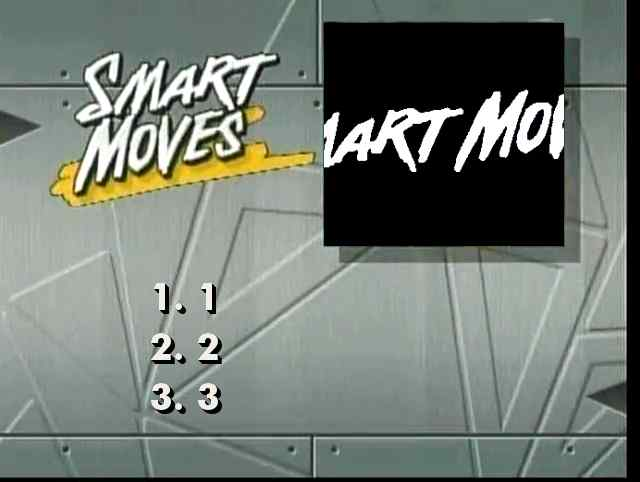
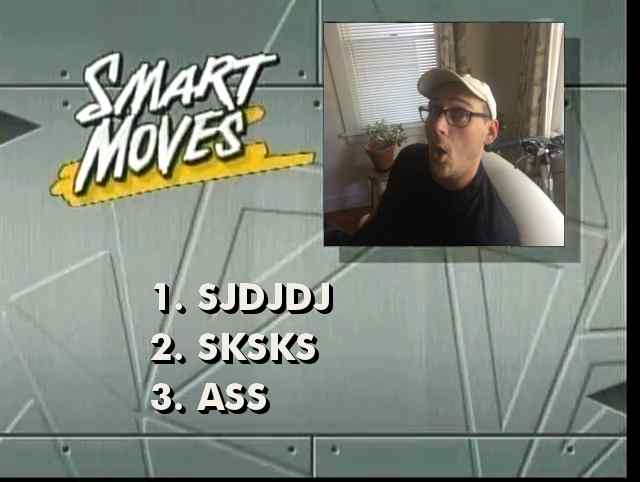
Beer break.

Changed region(s): [[0.5, 0.0311, 0.9062, 0.529], [0.3125, 0.6846, 0.5, 0.8714], [0.3125, 0.5602, 0.5312, 0.6535]]

diff --git a/css/styles.css b/css/styles.css
@@ -1,45 +1,93 @@
-.container { margin: 20px auto; }
+.container {
+  margin: 20px auto; }
+  .container input[type=text], .container textarea {
+    box-shadow: none;
+    outline: none;
+    appearance: none;
+    -moz-appearance: none;
+    -o-appearance: none;
+    -webkit-appearance: none; }
 
-.container input[type=text], .container textarea { box-shadow: none; outline: none; appearance: none; -moz-appearance: none; -o-appearance: none; -webkit-appearance: none; }
+#smrt-mvs-form {
+  position: relative;
+  text-align: center; }
+  #smrt-mvs-form img {
+    margin-bottom: 20px; }
+  #smrt-mvs-form input[type=file] {
+    height: 1px;
+    opacity: 0;
+    overflow: hidden;
+    position: absolute;
+    width: 1px;
+    z-index: -1; }
+  #smrt-mvs-form label[for=usr-img] {
+    display: block;
+    margin-bottom: 10px; }
+    #smrt-mvs-form label[for=usr-img]:hover {
+      cursor: pointer; }
+    #smrt-mvs-form label[for=usr-img] .img-inner {
+      overflow: hidden;
+      text-align: center;
+      text-overflow: ellipsis; }
+      #smrt-mvs-form label[for=usr-img] .img-inner i {
+        font-size: 20px;
+        margin-right: 10px;
+        vertical-align: middle; }
+  #smrt-mvs-form .msg-log {
+    margin-bottom: 20px;
+    text-align: left; }
+  #smrt-mvs-form .mvs-outer {
+    margin-bottom: 20px; }
+    #smrt-mvs-form .mvs-outer .form-group {
+      margin-bottom: 10px; }
+      #smrt-mvs-form .mvs-outer .form-group input[type=text] {
+        border-radius: 0; }
+      #smrt-mvs-form .mvs-outer .form-group .input-group-addon {
+        border-radius: 0;
+        padding: 10px 10px 10px 14px; }
 
-#smrt-mvs-form { position: relative; text-align: center; }
+#smrt-mvs-results {
+  position: relative;
+  text-align: center; }
+  #smrt-mvs-results img {
+    margin-bottom: 20px; }
+  #smrt-mvs-results .input-group {
+    margin-bottom: 20px; }
 
-#smrt-mvs-form img { margin-bottom: 20px; }
+#smrt-mvs-tab {
+  position: relative;
+  text-align: center; }
+  #smrt-mvs-tab .btn-group {
+    margin-bottom: 20px; }
+    #smrt-mvs-tab .btn-group button {
+      width: 80px; }
 
-#smrt-mvs-form input[type=file] { height: 1px; opacity: 0; overflow: hidden; position: absolute; width: 1px; z-index: -1; }
-
-#smrt-mvs-form label[for=usr-img] { display: block; margin-bottom: 10px; }
-
-#smrt-mvs-form label[for=usr-img]:hover { cursor: pointer; }
-
-#smrt-mvs-form label[for=usr-img] .img-inner { overflow: hidden; text-align: center; text-overflow: ellipsis; }
-
-#smrt-mvs-form label[for=usr-img] .img-inner i { font-size: 20px; margin-right: 10px; vertical-align: middle; }
-
-#smrt-mvs-form .msg-log { margin-bottom: 20px; text-align: left; }
-
-#smrt-mvs-form .mvs-outer { margin-bottom: 20px; }
-
-#smrt-mvs-form .mvs-outer .form-group { margin-bottom: 10px; }
-
-#smrt-mvs-form .mvs-outer .form-group .input-group-addon { padding: 10px 10px 10px 14px; }
-
-#smrt-mvs-results { position: relative; text-align: center; }
-
-#smrt-mvs-results img { margin-bottom: 20px; }
-
-#smrt-mvs-results .input-group { margin-bottom: 20px; }
-
-#smrt-mvs-tab { position: relative; text-align: center; }
-
-#smrt-mvs-tab .btn-group { margin-bottom: 20px; }
-
-#smrt-mvs-tab .btn-group button { width: 80px; }
-
-@media only screen and (min-device-width: 670px) { .container { width: 670px; }
-  #smrt-mvs-form label[for=usr-img] { border-radius: 0; height: 223px; padding: 10px; position: absolute; top: 23px; left: 339px; width: 240px; }
-  #smrt-mvs-form label[for=usr-img] .img-inner { position: relative; top: 50%; transform: translateY(-50%); }
-  #smrt-mvs-form label[for=usr-img] .img-inner i { display: block; font-size: 42px; margin-right: 0; }
-  #smrt-mvs-form .mvs-outer { position: absolute; }
-  #smrt-mvs-form .mvs-outer.template-grey { top: 270px; left: 24%; right: 24%; }
-  #smrt-mvs-form .mvs-outer.template-green { top: 210px; left: 12%; right: 12%; } }
+@media only screen and (min-device-width: 670px) {
+  .container {
+    width: 670px; }
+  #smrt-mvs-form label[for=usr-img] {
+    border-radius: 0;
+    height: 223px;
+    padding: 10px;
+    position: absolute;
+    top: 23px;
+    left: 339px;
+    width: 240px; }
+    #smrt-mvs-form label[for=usr-img] .img-inner {
+      position: relative;
+      top: 50%;
+      transform: translateY(-50%); }
+      #smrt-mvs-form label[for=usr-img] .img-inner i {
+        display: block;
+        font-size: 42px;
+        margin-right: 0; }
+  #smrt-mvs-form .mvs-outer {
+    position: absolute; }
+    #smrt-mvs-form .mvs-outer.template-grey {
+      top: 270px;
+      left: 24%;
+      right: 24%; }
+    #smrt-mvs-form .mvs-outer.template-green {
+      top: 210px;
+      left: 12%;
+      right: 12%; } }

diff --git a/css/styles.scss b/css/styles.scss
@@ -63,7 +63,12 @@ $mvs-width: 640px + 30px;
 		.form-group {
 			margin-bottom: 10px;
 			
+			input[type=text] {
+				border-radius: 0;
+			}
+			
 			.input-group-addon {
+				border-radius: 0;
 				padding: 10px 10px 10px 14px;
 			}
 		}

diff --git a/index.php b/index.php
@@ -75,7 +75,7 @@
 		
 	}			
 	
-	function validate_image( $usr_image ) {
+	function validate_image( $user_image ) {
 		
 		global $img_log;
 		
@@ -84,7 +84,7 @@
 		// Initialize validation and check if user file present
 		$submit_ok = true;
 		
-		if( empty( $usr_image['tmp_name'] ) ) {					
+		if( empty( $user_image['tmp_name'] ) ) {					
 			$img_log[] = '<strong>ERROR:</strong> Champions always choose an image!';
 			return false;
 		} else {
@@ -92,7 +92,7 @@
 		}
 			
 		// Check if user file is image
-		$is_image = getimagesize( $usr_image['tmp_name'] );
+		$is_image = getimagesize( $user_image['tmp_name'] );
 		
 		if( $is_image == false ) {
 			$img_log[] = '<strong>ERROR:</strong> File is not an image.';
@@ -102,9 +102,11 @@
 		}
 		
 		// Check if image extension is allowed
-		$image_extension = pathinfo( sys_get_temp_dir () . basename( $usr_image['name'] ), PATHINFO_EXTENSION );
+		$allowed_extensions = array( 'JPEG', 'JPG', 'PNG', 'GIF', 'jpeg', 'jpg', 'png', 'gif' );
+		
+		$image_extension = pathinfo( sys_get_temp_dir () . basename( $user_image['name'] ), PATHINFO_EXTENSION );
 				
-		if( $image_extension !== 'jpeg' && $image_extension !== 'jpg' && $image_extension !== 'png' && $image_extension !== 'gif' ) {
+		if( !in_array( $image_extension, $allowed_extensions ) ) {
 			$img_log[] = '<strong>ERROR:</strong> File must be a JPEG, JPG, PNG or GIF image.';
 			$submit_ok = false;
 		} else {
@@ -114,11 +116,11 @@
 		// Check if image size is within limit
 		$size_limit = 5242880;
 		
-		if( $usr_image['size'] > $size_limit ) {
+		if( $user_image['size'] > $size_limit ) {
 			$img_log[] = '<strong>ERROR:</strong> File is too large (<code>Limit is ' . $size_limit . ' bytes</code>).';
 			$submit_ok = false;
 		} else {
-			$img_log[] = '<strong>OK:</strong> File size within limit (<code>' . $usr_image['size'] . ' bytes</code>).';
+			$img_log[] = '<strong>OK:</strong> File size within limit (<code>' . $user_image['size'] . ' bytes</code>).';
 		}
 		
 		// Check if any errors, else return true
@@ -149,9 +151,9 @@
 		
 	}
 	
-	function create_image( $template_option, $smart_moves, $usr_image ) {
+	function create_image( $template_option, $smart_moves, $user_image ) {
 		
-		// $file = 'img/mvs/' . md5( $usr_image . $smart_moves[0] . $smart_moves[1] . $smart_moves[2] ) . '.jpg';
+		// $file = 'img/mvs/' . md5( $user_image . $smart_moves[0] . $smart_moves[1] . $smart_moves[2] ) . '.jpg';
 		
 		$file = 'img/mvs/testing.jpg';
 		
@@ -187,17 +189,17 @@
 			
 			if( $template_option == 'grey' ) {
 				// Get user image properties
-				list( $src_width, $src_height, $src_type ) = getimagesize( $usr_image );
+				list( $src_width, $src_height, $src_type ) = getimagesize( $user_image );
 				
 				switch ( $src_type ) {
 					case IMAGETYPE_GIF:
-						$src_image = imagecreatefromgif( $usr_image );
+						$src_image = imagecreatefromgif( $user_image );
 						break;
 					case IMAGETYPE_JPEG:
-						$src_image = imagecreatefromjpeg( $usr_image );
+						$src_image = imagecreatefromjpeg( $user_image );
 						break;
 					case IMAGETYPE_PNG:
-						$src_image = imagecreatefrompng( $usr_image );
+						$src_image = imagecreatefrompng( $user_image );
 						break;
 				}
 				
@@ -309,7 +311,7 @@
 		if( $template_option == 'grey' ) {
 			// Set user image
 			if( validate_image( $_FILES['usr_img'] ) == true ) {
-				$usr_image = $_FILES['usr_img']['tmp_name'];
+				$user_image = $_FILES['usr_img']['tmp_name'];
 			} else {
 				$submit_ok = false;
 			}
@@ -317,7 +319,7 @@
 		
 		// Check for errors, else create image
 		if( $submit_ok == true ) {
-			$filename = create_image( $template_option, $smart_moves, $usr_image );
+			$filename = create_image( $template_option, $smart_moves, $user_image );
 		} 
 	}
 
@@ -403,19 +405,19 @@
 							<div class="form-group">
 								<div class="input-group input-group-lg">
 									<div class="input-group-addon">1.</div>
-									<input type="text" placeholder="<?php if( empty( $_POST['move_1'] ) ) { echo $smart_moves[0]; } ?>" name="move_1" maxlength="20" class="form-control" autocomplete="off">
+									<input type="text" placeholder="<?php echo $smart_moves[0]; ?>" name="move_1" maxlength="20" class="form-control" autocomplete="off">
 								</div>
 							</div>
 							<div class="form-group">
 								<div class="input-group input-group-lg">
 									<div class="input-group-addon">2.</div>
-									<input type="text" placeholder="<?php if( empty( $_POST['move_2'] ) ) { echo $smart_moves[1]; } ?>" name="move_2" maxlength="20" class="form-control" autocomplete="off">
+									<input type="text" placeholder="<?php echo $smart_moves[1]; ?>" name="move_2" maxlength="20" class="form-control" autocomplete="off">
 								</div>
 							</div>
 							<div class="form-group">
 								<div class="input-group input-group-lg">
 									<div class="input-group-addon">3.</div>
-									<input type="text" placeholder="<?php if( empty( $_POST['move_3'] ) ) { echo $smart_moves[2]; } ?>" name="move_3" maxlength="20" class="form-control" autocomplete="off">
+									<input type="text" placeholder="<?php echo $smart_moves[2]; ?>" name="move_3" maxlength="20" class="form-control" autocomplete="off">
 								</div>
 							</div>
 						</div>
